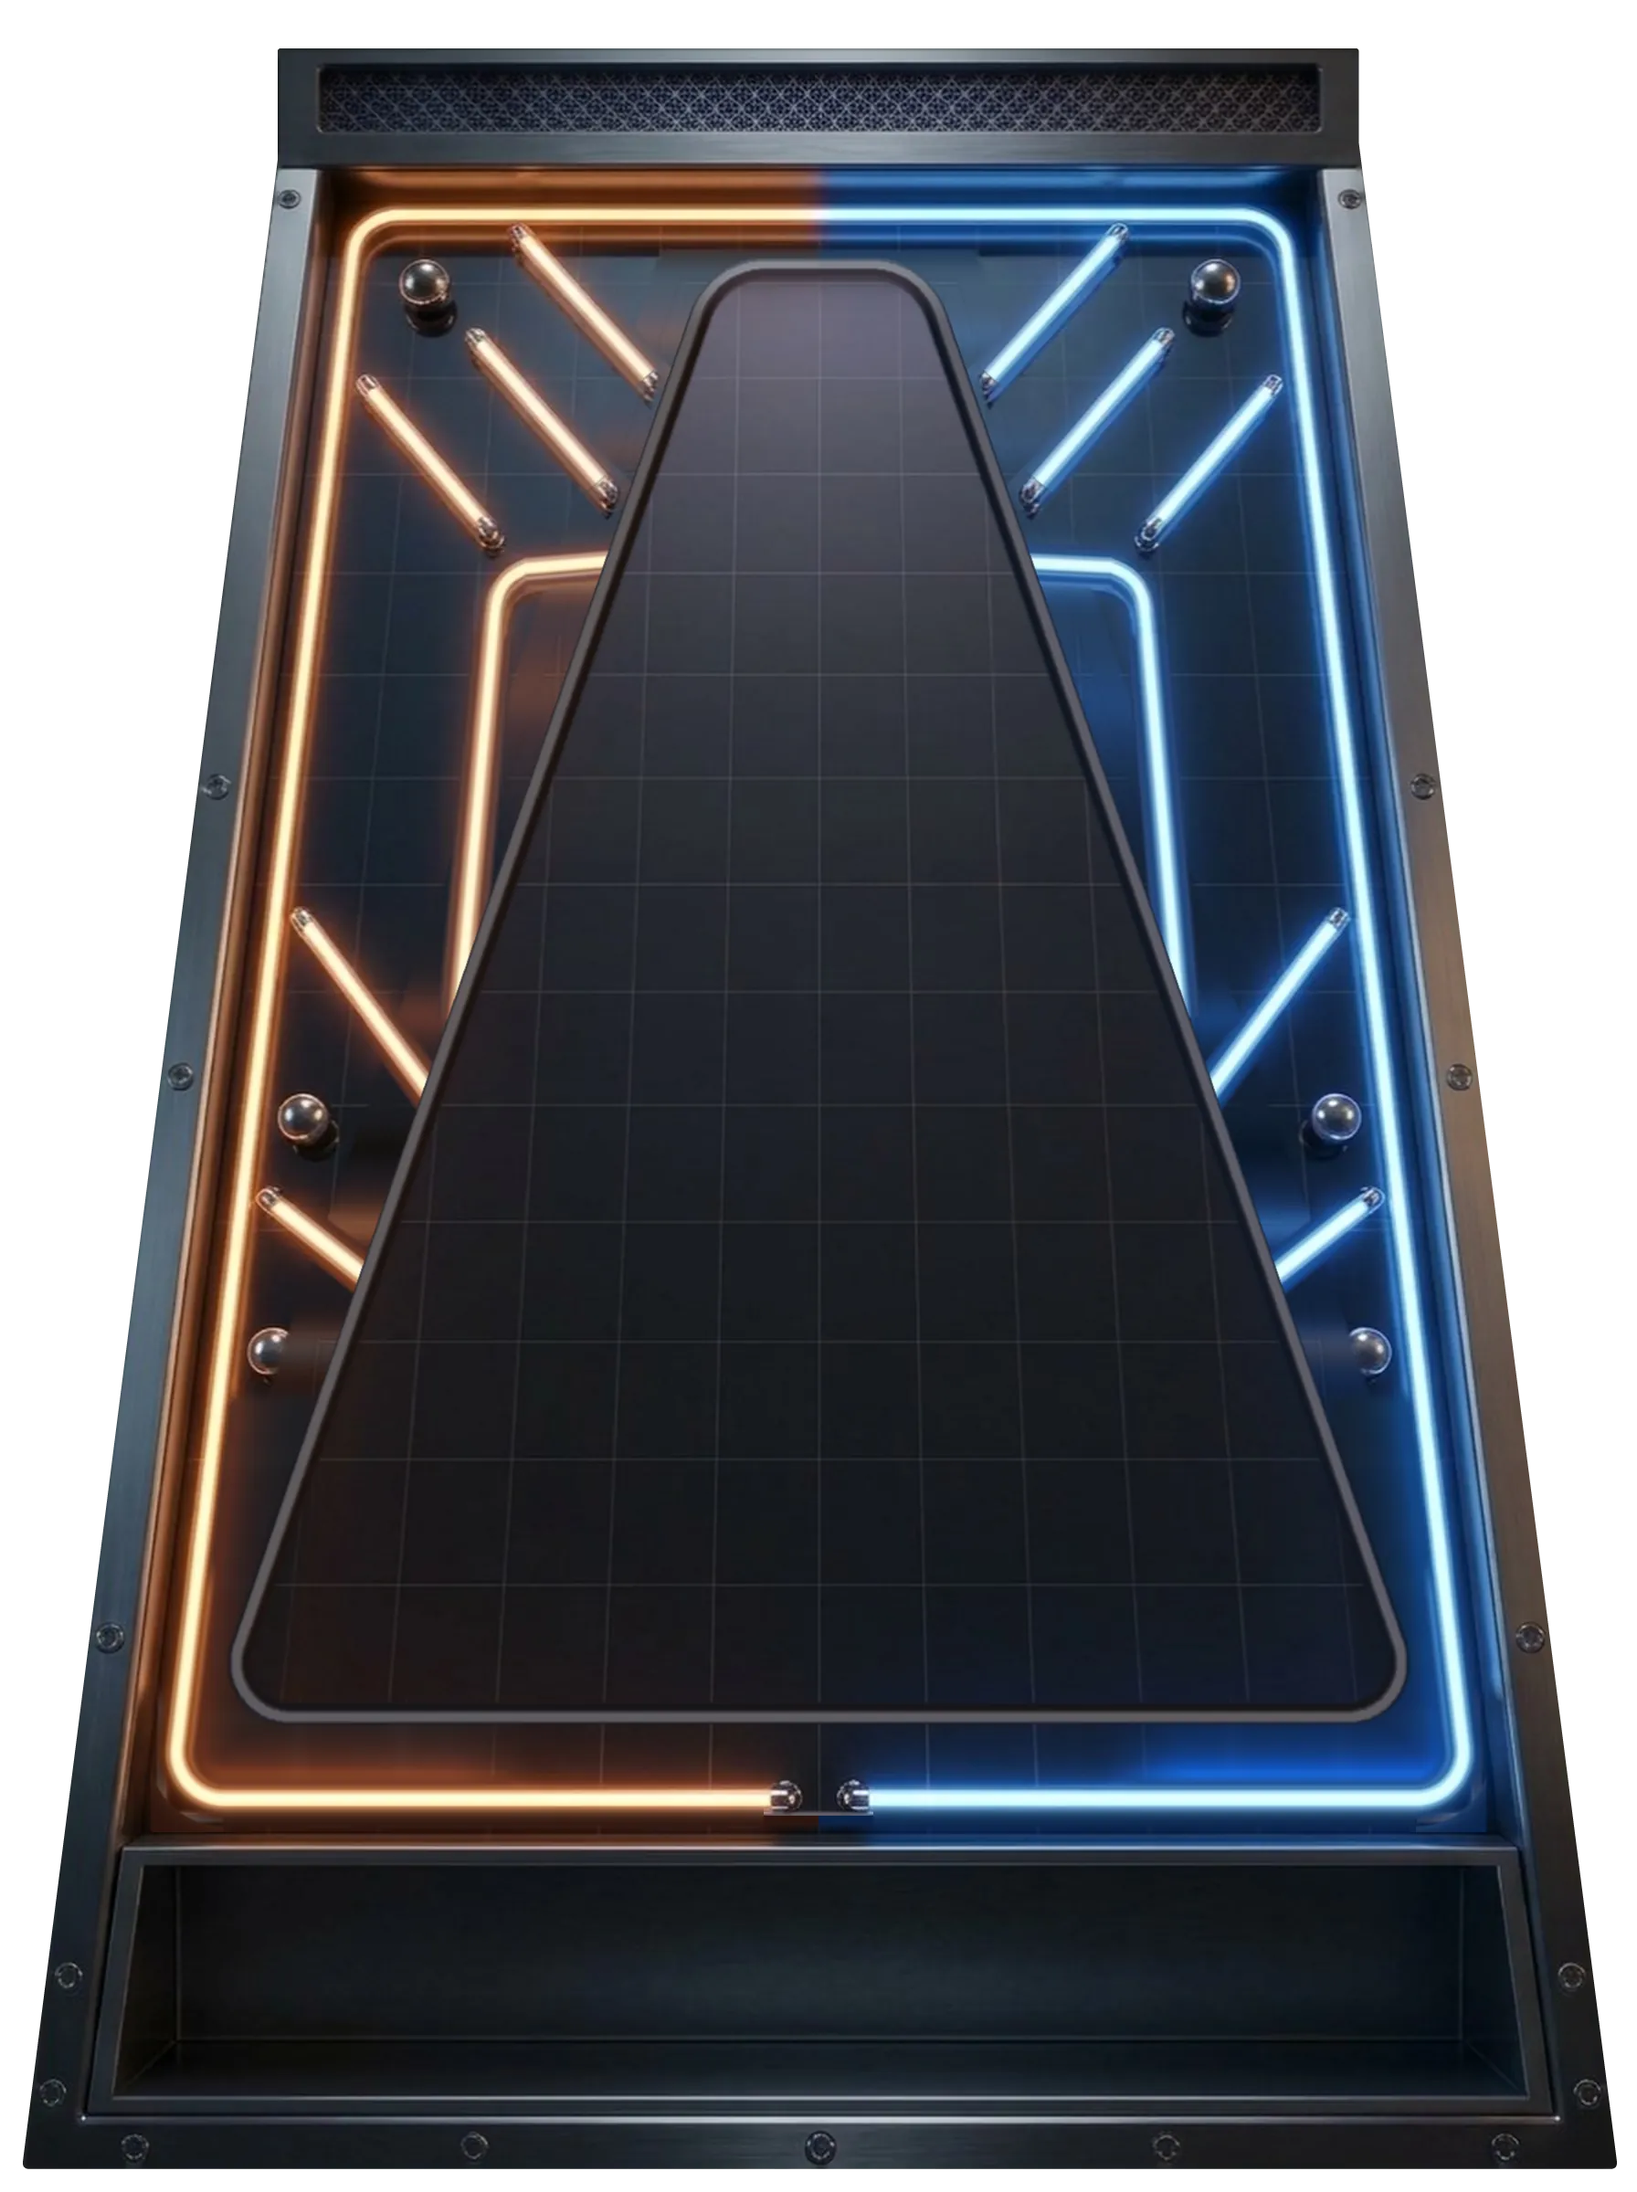
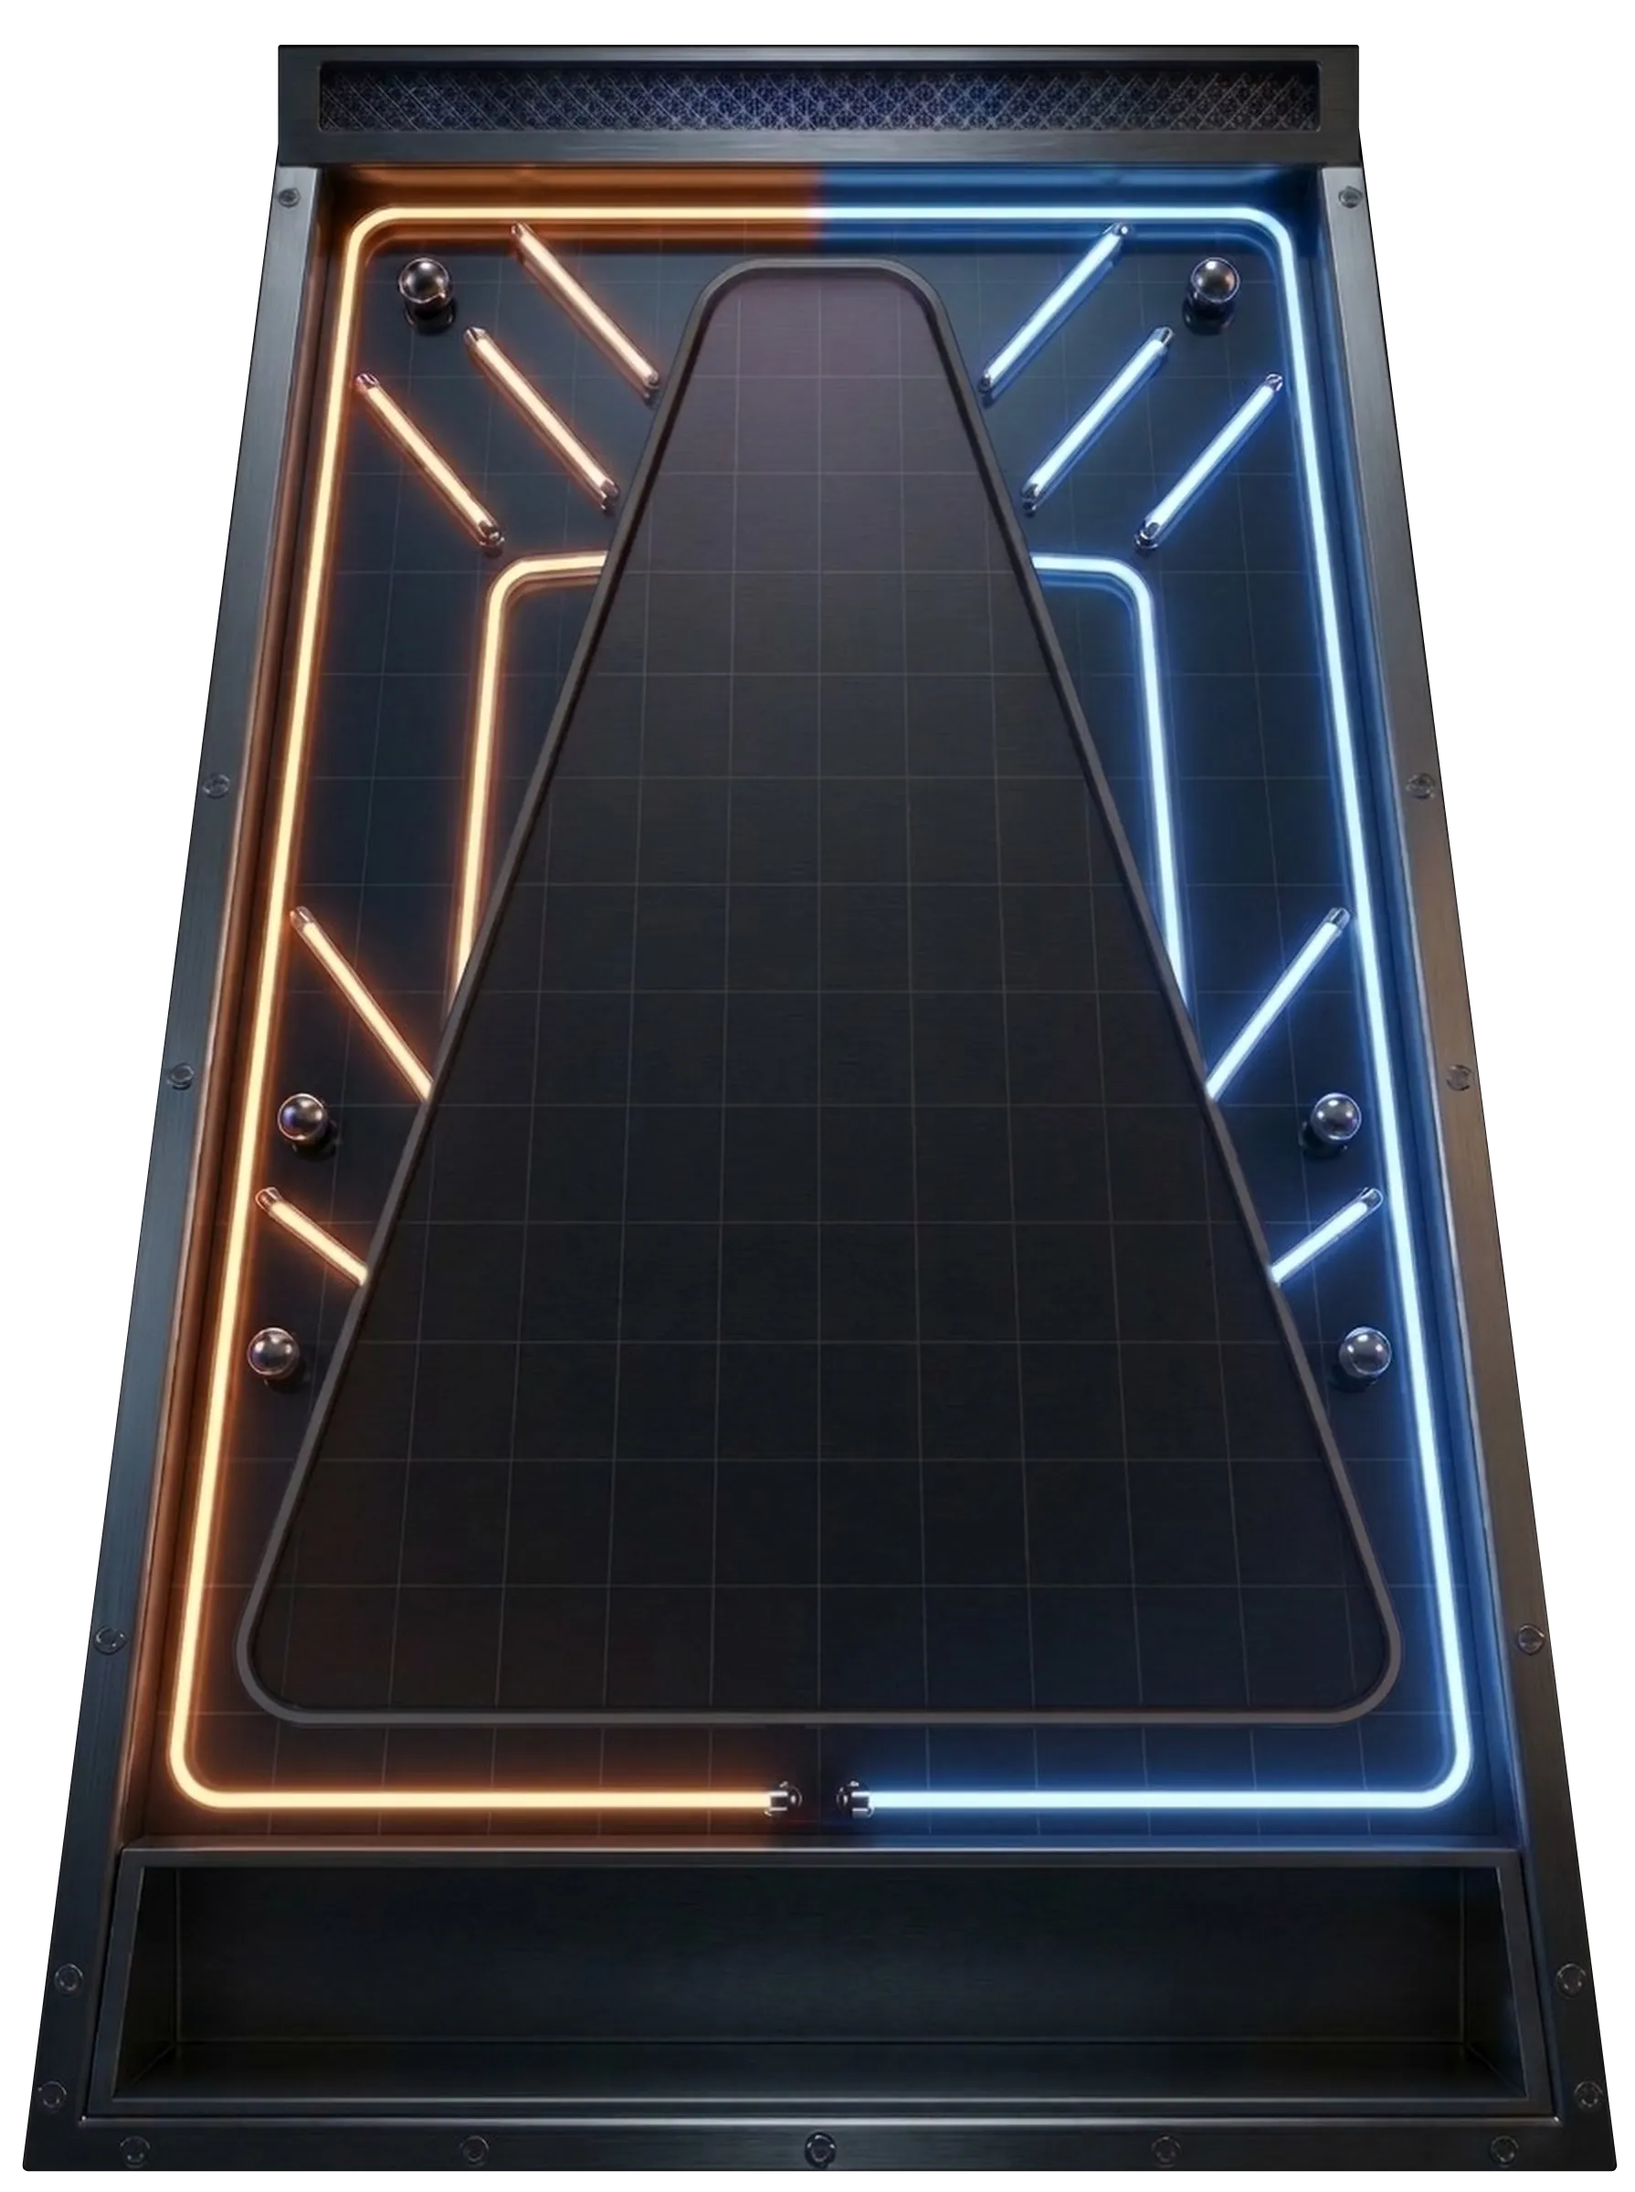
feat(board): new cabinet art with a narrow closed plate, steel bin dividers
The cabinet is a fresh render whose plate already hugs the pyramid, so
no retouched floor is left around it; the layout is measured on it
(plate sides, rounded corners, channel gap). Stray balls in the bin
shelf and the bar under the centre caps are removed. The bin dividers
are thin brushed-steel pins instead of neon dashes.

diff --git a/src/board/renderer.ts b/src/board/renderer.ts
@@ -594,21 +594,44 @@ export class BoardRenderer {
     drawChannels();
 
     function drawChannels() {
-      // Channels into the bins: alternate the two hues, swelling towards the shelf. With the
-      // cabinet art they sit in the gap under the plate's bottom edge.
+      // Dividers into the bins: brushed steel pins in the gap under the plate's bottom edge,
+      // like the cabinet's metal, so the only neon is the cabinet's own.
       const top = field.channelTop ?? rowY(lastRow) + g.rowGap * 0.6;
       const bottom = field.channelBottom ?? field.bottom;
+      const pinW = Math.max(1.2, Math.min(2.2, s * 0.085));
+      const len = bottom - top;
       for (let k = 1; k <= rows; k++) {
         const x = binCenterX(g, k) - s / 2;
-        tube(
-          [
-            [x, top],
-            [x, bottom],
-          ],
-          k % 2 === 0 ? colorA : colorB,
-          w * 0.45,
-          w * 1.0,
+        // soft contact shadow on the floor
+        ctx.fillStyle = 'rgba(0, 0, 0, 0.45)';
+        ctx.beginPath();
+        ctx.roundRect(x - pinW * 0.5 + pinW * 0.6, top + pinW * 0.6, pinW * 1.3, len, pinW);
+        ctx.fill();
+        // the pin: dark edges, a bright highlight on the left, like a chrome rod lit from the top-left
+        const body = ctx.createLinearGradient(x - pinW / 2, 0, x + pinW / 2, 0);
+        body.addColorStop(0, '#3a3d43');
+        body.addColorStop(0.3, '#e4e7ec');
+        body.addColorStop(0.55, '#8d929b');
+        body.addColorStop(1, '#2b2e33');
+        ctx.fillStyle = body;
+        ctx.beginPath();
+        ctx.roundRect(x - pinW / 2, top, pinW, len, pinW / 2);
+        ctx.fill();
+        // a faint glint at the top cap
+        const cap = ctx.createRadialGradient(
+          x - pinW * 0.15,
+          top + pinW * 0.5,
+          0,
+          x,
+          top + pinW * 0.5,
+          pinW,
         );
+        cap.addColorStop(0, 'rgba(255, 255, 255, 0.85)');
+        cap.addColorStop(1, 'rgba(255, 255, 255, 0)');
+        ctx.fillStyle = cap;
+        ctx.beginPath();
+        ctx.arc(x, top + pinW * 0.5, pinW, 0, Math.PI * 2);
+        ctx.fill();
       }
     }
   }

diff --git a/src/board/cabinet.ts b/src/board/cabinet.ts
@@ -1,7 +1,7 @@
 /**
  * The machine cabinet drawn around the board: art plus where its playfield and bin shelf
- * are, as fractions of the image. Measured on `art/cabinet.png` (1792×2400, drawn from a
- * 896×1200 layout).
+ * are, as fractions of the image. Measured on `art/cabinet.png` (1790×2400, drawn from a
+ * 895×1200 layout).
  */
 import cabinetUrl from '../assets/cabinet.webp';
 
@@ -30,18 +30,18 @@ export interface CabinetLayout {
 }
 
 export const CABINET_LAYOUT: CabinetLayout = {
-  aspect: 896 / 1200,
+  aspect: 895 / 1200,
   field: {
-    top: 0.121,
-    bottom: 0.7833,
-    leftTop: 0.4354,
-    rightTop: 0.5646,
-    leftBottom: 0.1305,
-    rightBottom: 0.8702,
+    top: 0.1221,
+    bottom: 0.7808,
+    leftTop: 0.4374,
+    rightTop: 0.5621,
+    leftBottom: 0.1357,
+    rightBottom: 0.8651,
     corner: 30 / 1200,
-    topCorner: 40 / 1200,
+    topCorner: 20 / 1200,
   },
-  channels: { top: 0.7917, bottom: 0.8125 },
+  channels: { top: 0.79, bottom: 0.804 },
   shelf: { top: 0.855, bottom: 0.94, left: 0.095, right: 0.905 },
 };
 
